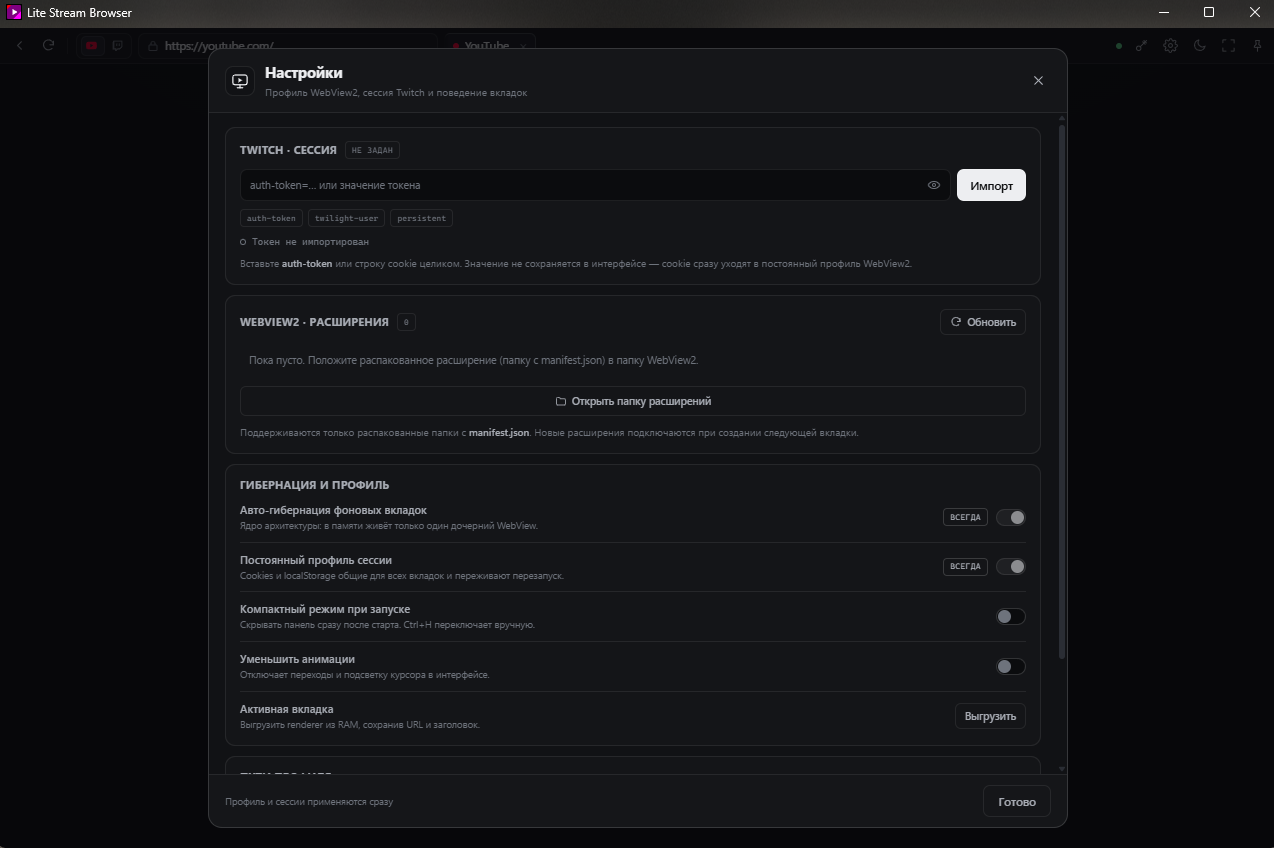
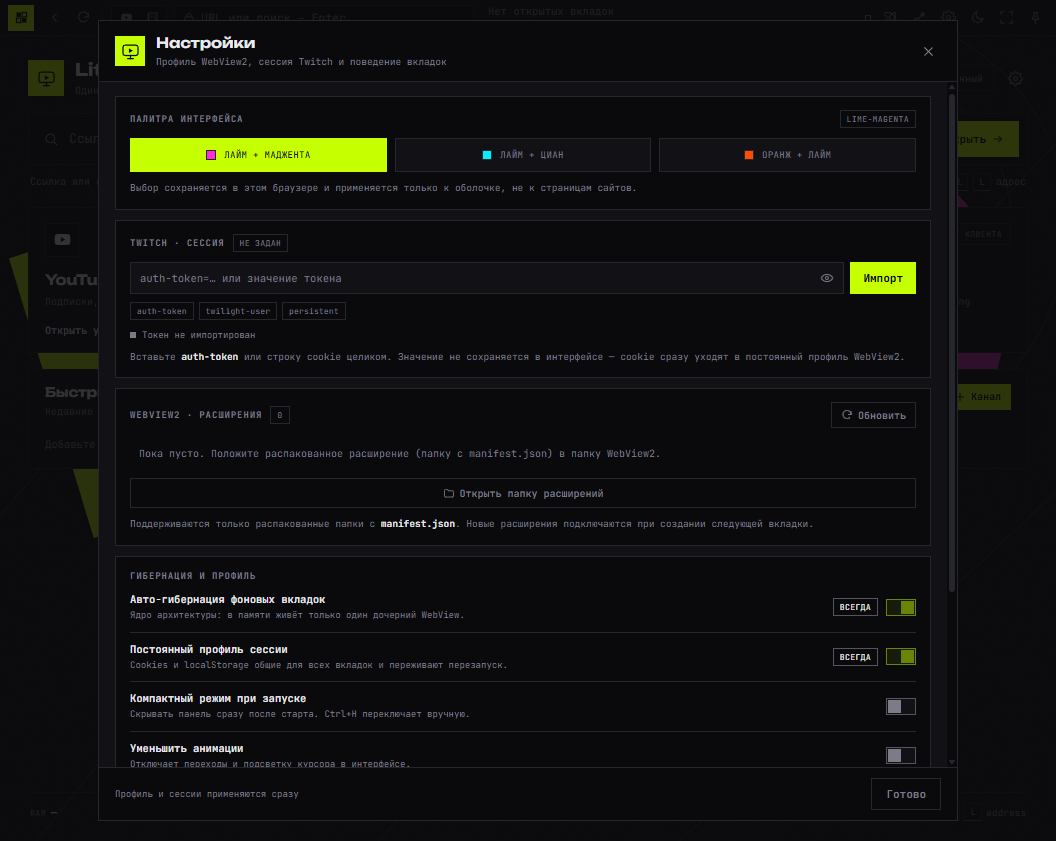
docs: describe acid theme, presets and local fonts

diff --git a/README.md b/README.md
@@ -9,17 +9,44 @@
 рендеринга, а URL и заголовок остаются в Rust. При возврате WebView создаётся заново
 с тем же постоянным профилем, поэтому страница открывается уже авторизованной.
 
-> **UI-правила:** для любых изменений интерфейса обязателен [`AGENTS.md`](AGENTS.md)
-> (Unslop) — монохромная десктопная эстетика в духе Linear/Raycast/Arc, запрет
-> AI-slop/градиентов/шейдеров/тяжёлых анимаций, акценты только `#FF0033` (YouTube)
-> и `#9146FF` (Twitch), анимации только `transform/opacity`.
+> **Тема оболочки:** acid dark — тёмная база и две кислотные акцентные переменные.
+> Палитра живёт только в CSS-переменных `:root`, пресеты переключаются в Настройках
+> и сохраняются в `localStorage`. Контент YouTube/Twitch в дочернем WebView не меняется.
+> Инварианты из [`AGENTS.md`](AGENTS.md) сохранены: один активный дочерний WebView,
+> панель 36 px, без blur/теней и бесконечных анимаций.
 
 ## Скриншоты
 
-| Домашний экран | Активная вкладка | Настройки |
-| :---: | :---: | :---: |
-| ![Домашний экран — Raycast-лаунчер](docs/screenshots/03-launcher-home.png) | ![Активная вкладка со стримом](docs/screenshots/01-active-stream.png) | ![Настройки приложения](docs/screenshots/02-settings-modal.png) |
-| *Raycast-лаунчер: быстрый запуск, карточки YouTube/Twitch, быстрый возврат и живая телеметрия RAM/CPU.* | *Один активный дочерний WebView, панель 36 px, вкладки и индикатор гибернации.* | *Сессия Twitch (`auth-token`), распакованные расширения WebView2, гибернация/профиль и пути.* |
+| Домашний экран | Настройки |
+| :---: | :---: |
+| ![Домашний экран в acid-теме](docs/screenshots/03-launcher-home.png) | ![Настройки в acid-теме](docs/screenshots/02-settings-modal.png) |
+| *Строка быстрого запуска, абстрактная SVG-композиция, карточки YouTube/Twitch/Chatterino и пресеты палитры в Настройках.* | *Переключатель палитры, сессия Twitch, расширения WebView2 и пути профиля. Токен в кадре не показан.* |
+
+## Тема и палитра
+
+Все цвета оболочки определены в `:root` и не повторяются в разметке:
+
+| Переменная | Значение | Где используется |
+|---|---|---|
+| `--bg` | `#0a0a0c` | фон окна и домашнего экрана |
+| `--panel` | `#121216` | панель, карточки, модалки |
+| `--line` | `#26262d` | разделители и рамки |
+| `--text` | `#e9e9ee` | основной текст |
+| `--dim` | `#7c7c88` | второстепенный текст и неактивные иконки |
+| `--accent-a` | из пресета | активная вкладка, фокус, главная кнопка |
+| `--accent-b` | из пресета | `zZ`, счётчики, бейджи расширений |
+| `--on-accent` | `#0a0a0c` | текст на акцентной заливке |
+
+Пресеты переключаются в **Настройки → Палитра интерфейса** и сохраняются в
+`localStorage` под ключом `lite-stream.palette.v1`:
+
+* `lime-magenta` — `#c6ff00` + `#ff2bd6` (по умолчанию);
+* `lime-cyan` — `#c6ff00` + `#00f0ff`;
+* `orange-lime` — `#ff4d00` + `#c6ff00`.
+
+На экране одновременно используются не больше двух акцентов. Шрифты Unbounded
+(заголовки) и JetBrains Mono (интерфейс, метрики, горячие клавиши) лежат в
+`ui/fonts/` и работают без сети; fallback — Segoe UI и Consolas.
 
 ---
 
@@ -28,6 +55,8 @@
 | Возможность | Как работает |
 |---|---|
 | **Raycast-лаунчер** | Домашний экран со строкой быстрого запуска: вставка URL, `twitch.tv/name`, `@канал` YouTube или имя канала → открытие нужной цели (Enter) с автоопределением типа |
+| **Палитра** | Три пресета acid-темы в Настройках; выбор хранится в `localStorage`, а цвета заданы только переменными `:root` |
+| **Быстрые ссылки** | Карточки YouTube, Twitch и Chatterino на домашнем экране и в доке панели; контент сайтов остаётся в дочернем WebView |
 | **+ YouTube / + Twitch** | Быстрые кнопки на панели, док платформ и крупные карточки на домашнем экране создают/открывают вкладки в общем профиле |
 | **Быстрый возврат** | Недавние вкладки (автозапоминание) и избранные каналы: 4 карточки по умолчанию с раскрытием, статусы `Active` / `Hibernated` / `Saved Session`, относительное время, удаление и добавление |
 | **Живая телеметрия** | Нижняя плашка домашнего экрана показывает RAM, CPU, число процессов (`Proc`), количество расширений (`Ext`) и метку профиля; замеры берутся по дереву процессов приложения (`get_runtime_stats`) |
@@ -210,7 +239,8 @@ lite-stream-browser/
 ├── AGENTS.md                      # Unslop: обязательные правила UI/дизайна и инварианты
 ├── .gitignore
 ├── ui/
-│   └── index.html                 # панель, Raycast-лаунчер, настройки, телеметрия: HTML + CSS + JS
+│   ├── index.html                 # панель, Raycast-лаунчер, настройки, телеметрия: HTML + CSS + JS
+│   └── fonts/                     # локальные woff2 Unbounded/JetBrains Mono и OFL.txt
 └── src-tauri/
     ├── Cargo.toml                 # tauri = { features = ["unstable"] }, windows (метрики)
     ├── build.rs
@@ -456,6 +486,8 @@ WebView2:
 |---|---|
 | Правила UI/дизайна (Unslop) | `AGENTS.md` (обязательно для любых изменений `ui/index.html` и нового UI-кода) |
 | Высота панели | `PANEL_HEIGHT` в `src-tauri/src/browser.rs` и `--bar` в `ui/index.html` |
+| Цвета и пресеты | переменные в `:root` и классы `.palette-*` в `ui/index.html`, переключатель в Настройках |
+| Локальные шрифты | `ui/fonts/`, секции `@font-face` в `ui/index.html`, лицензия в `ui/fonts/OFL.txt` |
 | Интерфейс: панель, Raycast-лаунчер, быстрый возврат, настройки, телеметрия | `ui/index.html` (HTML/CSS/JS, inline SVG, без фреймворков) |
 | Шорткаты и их регистрация по фокусу окна | `Ctrl+H`/`Ctrl+Tab` в `src-tauri/src/lib.rs`; обработка `Ctrl+L`, `Ctrl+,`, `Alt+←`, `Ctrl+R`/`F5` в `ui/index.html` |
 | Циклическое переключение вкладок | `cycle_tab` / `cycle_tab_sync` в `src-tauri/src/commands.rs`, регистрация в `src-tauri/src/lib.rs` |
@@ -472,25 +504,33 @@ WebView2:
 
 ---
 
-## Правила UI (Unslop)
+## Правила UI
 
-Любые изменения интерфейса (`ui/index.html`, стили, новые UI-элементы) должны
-соответствовать [`AGENTS.md`](AGENTS.md):
+Интерфейс — только Rust + Tauri v2 + WebView2 + vanilla HTML/CSS/JS. Без
+React/Vue, Tailwind CDN, сборщика, иконочных шрифтов и внешних запросов к шрифтам.
 
-* **Стек:** Rust + Tauri v2 + WebView2 + vanilla HTML/CSS/JS. Без React/Vue,
-  без Tailwind CDN, без сборщика и без иконочных шрифтов (только inline SVG).
-* **Эстетика:** нативный десктоп-лаунчер (Linear/Raycast/Arc), монохромная палитра
-  (`#0B0C0E` фон, `#111215` поверхности, `#181A1F/#1F2228` hover), границы
-  `1px solid rgba(255,255,255,0.08/0.16)`.
-* **Акценты:** только функциональные — YouTube `#FF0033`, Twitch `#9146FF`
-  (маркеры платформы/вкладок/иконок); статусы — приглушённые `#5ED68A/#E0B25C/#FF6B6B`
-  точками/чипами.
-* **Zero-bloat:** анимации только `transform`/`opacity` (150–220 ms,
-  `cubic-bezier(0.2,0,0,1)`), без blur/шейдеров/тяжёлых эффектов; пауза
-  анимаций/таймеров в compact/sleep/hidden и уважение `prefers-reduced-motion`.
+* **Палитра:** все цвета заданы CSS-переменными в `:root`; в разметке нет хардкодов
+  цветов. Акцент A — активное состояние, фокус и главная кнопка; акцент B —
+  вторичные метки. Одновременно не больше двух акцентов.
+* **Формы:** панель 36 px, квадратный логотип, плоские вкладки с разделителями
+  1 px, активная вкладка с полоской 2 px снизу, спящая — `opacity: .55` и метка
+  `zZ`. Вместо теней — рамки 1 px, вместо скруглений — прямые углы.
+* **Графика:** стартовая страница использует inline SVG с наклонным
+  четырёхугольником, органической формой на `mix-blend-mode: screen`,
+  концентрическими окружностями, диагоналями и зерном `feTurbulence` с
+  `opacity: .07`. Растровых фонов и Canvas-шейдеров нет.
+* **Zero-bloat:** без `backdrop-filter`, blur, больших `box-shadow` и
+  бесконечных анимаций. Переходы 150–200 ms только на hover/focus, обёрнуты в
+  `@media (prefers-reduced-motion: no-preference)`.
 * **Инварианты:** один живой дочерний WebView, `PANEL_HEIGHT` = `--bar` = 36 px,
   сохранение существующих Tauri-команд, оверлеи поверх страницы только через
   `set_webview_visible`, токен Twitch не логируется и не сохраняется в `localStorage`.
+  Компактный режим `Ctrl+H` работает как раньше — меняется только оформление.
+
+### Credits
+
+Шрифты **Unbounded** и **JetBrains Mono** — Google Fonts Project, лицензия
+SIL Open Font License 1.1. Файлы и текст лицензии: [`ui/fonts/OFL.txt`](ui/fonts/OFL.txt).
 
 ---
 
